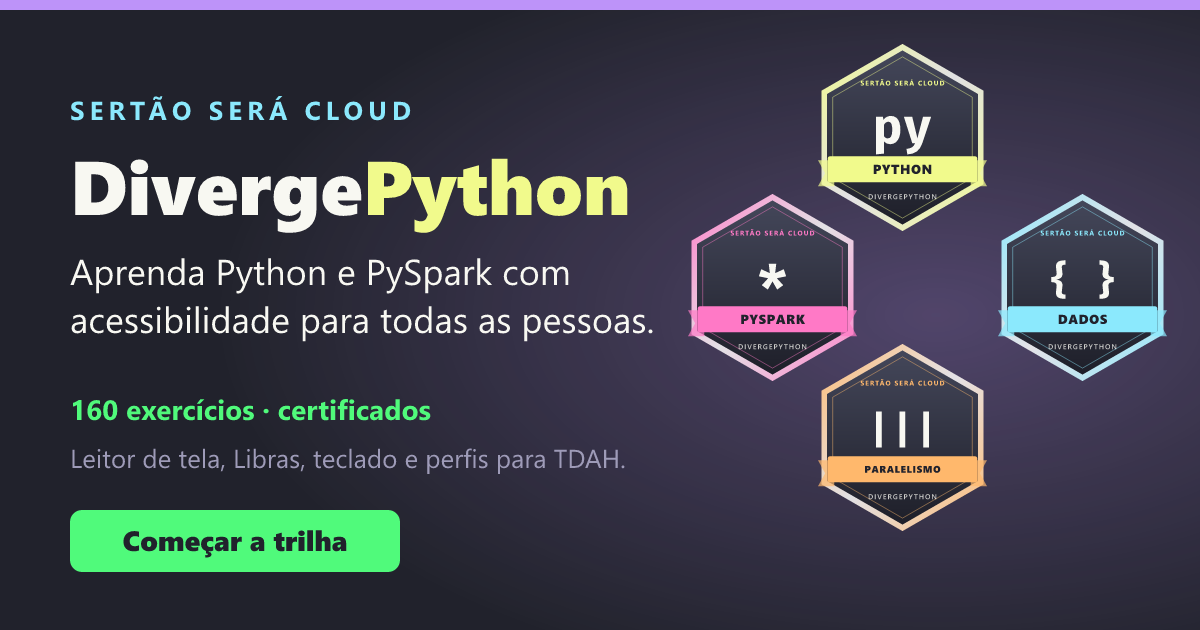
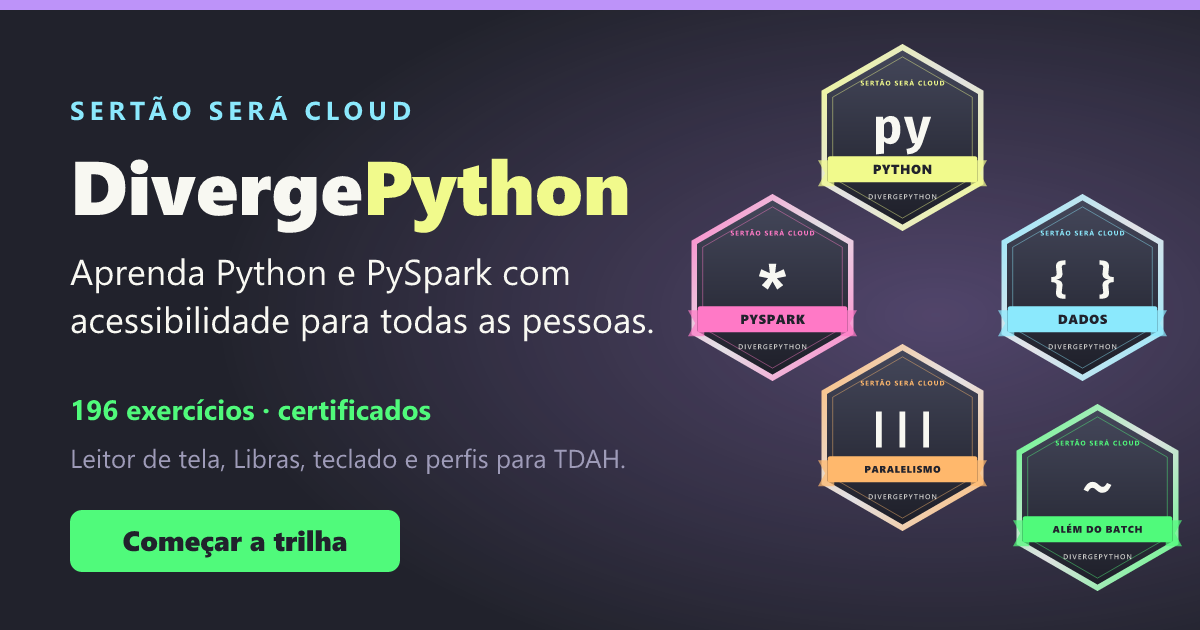
Trilha: o módulo 🌊 Spark além do batch, com certificado, badge e glossário

Changed region(s): [[0.8325, 0.6333, 0.9867, 0.9349], [0.8942, 0.754, 0.925, 0.7841], [0.0617, 0.6333, 0.0925, 0.6635]]

diff --git a/src/conteudo/glossario.js b/src/conteudo/glossario.js
@@ -392,6 +392,103 @@ export const GLOSSARIO = [
     analogia: 'Uma resposta em branco no questionário: não dá para dizer se é sim ou não.',
     exemplo: 'df.filter(df.nota.isNull()).show()\ndf.na.fill({"nota": 0.0})',
   },
+  // ---------- Spark além do batch ----------
+  {
+    id: 'micro-lote', termo: 'Micro-lote', padroes: ['micro-?lotes?'],
+    definicao: 'Um pedaço dos dados que chegaram no streaming, processado de uma vez. O Structured Streaming roda um micro-lote atrás do outro.',
+    analogia: 'A passada no pluviômetro: a cada visita você anota só o que choveu desde a última.',
+    exemplo: 'q = df.writeStream.format("console").start()\nq.processAllAvailable()  # Batch: 0, Batch: 1...',
+  },
+  {
+    id: 'estado-streaming', termo: 'Estado', padroes: ['estado'],
+    definicao: 'O que uma consulta de streaming guarda entre um micro-lote e outro, como a contagem de cada chave até agora.',
+    analogia: 'O caderno do apurador: a cada urna nova, ele soma aos totais que já anotou.',
+    exemplo: 'contagem = leituras.groupBy("estacao").count()  # a contagem é o estado',
+  },
+  {
+    id: 'marca-dagua', termo: "Marca d'água", padroes: ["marca d['’]água", 'watermark'],
+    definicao: 'Até onde o streaming espera dados atrasados: o maior tempo de evento já visto menos o atraso aceito. O que chega antes dela é descartado.',
+    analogia: 'O fim da feira: depois de certa hora, quem chega com mercadoria não monta mais a banca.',
+    exemplo: 'df.withWatermark("momento", "5 minutes")',
+  },
+  {
+    id: 'gatilho', termo: 'Gatilho', padroes: ['gatilhos?', 'trigger'],
+    definicao: 'Quando a consulta de streaming roda um micro-lote: a cada intervalo, uma vez só, ou até acabar o que já chegou.',
+    analogia: 'O despertador do vigia: ele faz a ronda a cada hora, ou uma vez antes de fechar.',
+    exemplo: 'df.writeStream.trigger(availableNow=True).start()',
+  },
+  {
+    id: 'modo-saida', termo: 'Modo de saída', padroes: ['modos? de saída', 'outputMode'],
+    definicao: 'O que sai em cada micro-lote: append (só as linhas novas), complete (a tabela inteira) ou update (só o que mudou).',
+    analogia: 'O boletim da chuva: só as cidades novas, a lista inteira de novo, ou só quem mudou desde o último.',
+    exemplo: 'df.writeStream.outputMode("update")',
+  },
+  {
+    id: 'tempo-evento', termo: 'Tempo do evento', padroes: ['tempo do evento'],
+    definicao: 'A hora em que a coisa aconteceu (a leitura da estação), e não a hora em que o dado chegou ao Spark.',
+    analogia: 'A data da carta é a do dia em que foi escrita, não a do dia em que o carteiro entregou.',
+    exemplo: 'F.window("momento", "10 minutes")  # momento é o tempo do evento',
+  },
+  {
+    id: 'feature', termo: 'Feature', padroes: ['features?'],
+    definicao: 'Uma característica usada pelo modelo para prever: chuva, área, irrigação.',
+    analogia: 'Os dados da ficha do agricultor que o agrônomo olha antes de dar o palpite da safra.',
+    exemplo: 'VectorAssembler(inputCols=["chuva_mm", "area_ha"], outputCol="features")',
+  },
+  {
+    id: 'vetor', termo: 'Vetor', padroes: ['vetor(es)?', 'DenseVector', 'SparseVector'],
+    definicao: 'Uma lista de números numa coluna só. No MLlib, as features de cada linha vão juntas num vetor.',
+    analogia: 'O cartão com todos os números da roça, em vez de folhas soltas.',
+    exemplo: 'from pyspark.ml.linalg import Vectors\nVectors.dense([300.0, 5.0, 1.0])',
+  },
+  {
+    id: 'estimador', termo: 'Estimador', padroes: ['estimador(es)?', 'Estimator'],
+    definicao: 'Algo que aprende com os dados (fit) e devolve um modelo, como o LinearRegression ou o StringIndexer.',
+    analogia: 'O aprendiz que observa a colheita e, depois, sabe dar o palpite sozinho.',
+    exemplo: 'modelo = LinearRegression(labelCol="producao_t").fit(dados)',
+  },
+  {
+    id: 'transformador', termo: 'Transformador', padroes: ['transformador(es)?', 'Transformer'],
+    definicao: 'Algo que muda um DataFrame com transform: o VectorAssembler e todo modelo treinado.',
+    analogia: 'A máquina de beneficiar: entra o grão, sai o grão limpo.',
+    exemplo: 'com_features = montador.transform(treino)',
+  },
+  {
+    id: 'pipeline', termo: 'Pipeline', padroes: ['pipelines?'],
+    definicao: 'As etapas de preparo e o modelo em ordem: o fit treina tudo, e o modelo do pipeline faz tudo de uma vez nos dados novos.',
+    analogia: 'A linha da casa de farinha: descascar, ralar, prensar e torrar, sempre na mesma ordem.',
+    exemplo: 'Pipeline(stages=[indexador, montador, regressao]).fit(treino)',
+  },
+  {
+    id: 'overfitting', termo: 'Overfitting', padroes: ['overfitting', 'sobreajuste'],
+    definicao: 'Quando o modelo decora o treino em vez de aprender: vai muito bem nele e mal em dados que nunca viu.',
+    analogia: 'O aluno que decorou as respostas da prova do ano passado e não sabe resolver a deste ano.',
+    exemplo: 'treino, teste = df.randomSplit([0.8, 0.2], seed=1)',
+  },
+  {
+    id: 'log-transacoes', termo: 'Log de transações', padroes: ['log de transaç(ão|ões)', '_delta_log'],
+    definicao: 'A pasta _delta_log de uma tabela Delta: um arquivo por versão, dizendo o que entrou e o que saiu.',
+    analogia: 'O livro-caixa da cooperativa: cada lançamento numa página nova, nada é apagado.',
+    exemplo: 'os.listdir("estoque/_delta_log")',
+  },
+  {
+    id: 'time-travel', termo: 'Time travel', padroes: ['time travel', 'versionAsOf', 'timestampAsOf'],
+    definicao: 'Ler uma tabela Delta como ela era numa versão (ou numa hora) do passado.',
+    analogia: 'Folhear o livro-caixa até a página de ontem.',
+    exemplo: 'spark.read.format("delta").option("versionAsOf", 0).load("estoque")',
+  },
+  {
+    id: 'upsert', termo: 'Upsert', padroes: ['upsert'],
+    definicao: 'Atualizar o que já existe e inserir o que é novo, numa operação só (o merge do Delta).',
+    analogia: 'Na chegada da mercadoria, o que já tem na prateleira soma, e o produto novo ganha prateleira.',
+    exemplo: 'tabela.alias("e").merge(novos.alias("n"), "e.id = n.id").whenMatchedUpdateAll().whenNotMatchedInsertAll().execute()',
+  },
+  {
+    id: 'vacuum', termo: 'Vacuum', padroes: ['vacuum'],
+    definicao: 'Apagar de verdade os arquivos que nenhuma versão recente de uma tabela Delta usa. Depois dele, o time travel para antes da retenção não funciona.',
+    analogia: 'Jogar fora os rascunhos velhos: o armário esvazia, mas não dá mais para consultar.',
+    exemplo: 'DeltaTable.forPath(spark, "estoque").vacuum(168)',
+  },
 ];
 
 // Letras (com acento), dígitos, _ e $ contam como parte de uma palavra.
@@ -403,7 +500,7 @@ const REGEX = new Map(GLOSSARIO.map((t) => [
 
 // Nível de cada termo: o módulo em que ele aparece primeiro (a ordem do glossário).
 const ORDEM_MODULOS = ['basico', 'dados', 'paralelismo', 'pyspark', 'alem', 'projetos'];
-const INICIO_DO_NIVEL = { basico: 'variavel', dados: 'comprehension', paralelismo: 'paralelismo', pyspark: 'spark' };
+const INICIO_DO_NIVEL = { basico: 'variavel', dados: 'comprehension', paralelismo: 'paralelismo', pyspark: 'spark', alem: 'micro-lote' };
 const NIVEL = new Map();
 {
   let nivel = 0;

diff --git a/public/badge/alem/index.html b/public/badge/alem/index.html
@@ -1,0 +1,40 @@
+<!doctype html>
+<html lang="pt-br">
+<head>
+  <meta charset="utf-8">
+  <meta name="viewport" content="width=device-width, initial-scale=1">
+  <title>Badge: Streaming, Machine Learning e Delta Lake com Spark · Sertão será cloud</title>
+  <meta name="description" content="Badge digital emitido pela Sertão será cloud. Carga horária: 20 horas. Habilidades: Delta Lake: versões, merge e time travel, Structured Streaming: micro-lotes, janelas e marca d'água, MLlib: pipelines, regressão, classificação e agrupamento, Avaliação de modelos.">
+  <meta property="og:type" content="website">
+  <meta property="og:site_name" content="Sertão será cloud">
+  <meta property="og:title" content="Badge: Streaming, Machine Learning e Delta Lake com Spark · Sertão será cloud">
+  <meta property="og:description" content="Badge digital emitido pela Sertão será cloud. Carga horária: 20 horas. Habilidades: Delta Lake: versões, merge e time travel, Structured Streaming: micro-lotes, janelas e marca d'água, MLlib: pipelines, regressão, classificação e agrupamento, Avaliação de modelos.">
+  <meta property="og:url" content="https://sertaoseracloud.github.io/python-playground/badge/alem/">
+  <meta property="og:image" content="https://sertaoseracloud.github.io/python-playground/badges/alem-card.png">
+  <meta property="og:image:width" content="1200">
+  <meta property="og:image:height" content="627">
+  <meta property="og:image:alt" content="Badge Streaming, Machine Learning e Delta Lake com Spark">
+  <meta name="robots" content="noindex, follow">
+  <meta name="twitter:card" content="summary_large_image">
+  <meta name="twitter:image" content="https://sertaoseracloud.github.io/python-playground/badges/alem-card.png">
+  <style>
+    body { margin: 0; min-height: 100vh; display: grid; place-items: center; background: #21222c; color: #f8f8f2; font-family: system-ui, sans-serif; text-align: center; }
+    img { width: 220px; height: 220px; }
+    a { color: #bd93f9; }
+  </style>
+</head>
+<body>
+  <main>
+    <img src="../../badges/alem.png" alt="">
+    <h1>Streaming, Machine Learning e Delta Lake com Spark</h1>
+    <p><a id="ir" href="../../">Abrir o certificado</a></p>
+  </main>
+  <script>
+    // O código do certificado vem em ?c=; o certificado em si é montado pelo site.
+    var c = new URLSearchParams(location.search).get('c');
+    var destino = '../../' + (c && /^[A-Za-z0-9_-]+$/.test(c) ? '#/certificado/' + c : '#/');
+    document.getElementById('ir').href = destino;
+    location.replace(destino);
+  </script>
+</body>
+</html>

diff --git a/src/conteudo/alem.js b/src/conteudo/alem.js
@@ -1,0 +1,29 @@
+// 🌊 Spark além do batch: 12 lições e 36 exercícios em três áreas, na ordem Delta Lake →
+// Structured Streaming → MLlib (alem-delta.js, alem-streaming.js e alem-mllib.js).
+import { licoesDelta, exerciciosDelta } from './alem-delta.js';
+import { licoesStreaming, exerciciosStreaming } from './alem-streaming.js';
+import { licoesMllib, exerciciosMllib } from './alem-mllib.js';
+
+const ex = Object.fromEntries([...exerciciosDelta, ...exerciciosStreaming, ...exerciciosMllib].map((e) => [e.id, e]));
+const itens = (...ids) => ids.map((id) => ex[id]);
+
+export const moduloAlem = {
+  id: 'alem',
+  titulo: 'Spark além do batch',
+  icone: '🌊',
+  descricao: "Delta Lake (versões, merge e time travel), Structured Streaming (micro-lotes, janelas e marca d'água) e MLlib (pipelines, regressão, classificação e agrupamento). Uma implementação para aprender, com a API do Spark, rodando no seu navegador.",
+  itens: [
+    licoesDelta.tabela, ...itens('dl-gravar', 'dl-append'),
+    licoesDelta.historico, ...itens('dl-versao', 'dl-voltar'),
+    licoesDelta.merge, ...itens('dl-update', 'dl-delete', 'dl-merge', 'dl-historico', 'dl-desfazer'),
+    licoesDelta.manutencao, ...itens('dl-schema', 'dl-vacuum', 'dl-optimize'),
+    licoesStreaming.microLotes, ...itens('st-rate', 'st-ler'),
+    licoesStreaming.fontes, ...itens('st-filtro', 'st-max-files', 'st-sql'),
+    licoesStreaming.modos, ...itens('st-complete', 'st-update', 'st-alerta'),
+    licoesStreaming.janelas, ...itens('st-janela', 'st-deslizante', 'st-marca', 'st-fechadas'),
+    licoesMllib.features, ...itens('ml-vetor', 'ml-scaler'),
+    licoesMllib.pipeline, ...itens('ml-indexer', 'ml-pipeline'),
+    licoesMllib.modelos, ...itens('ml-linear', 'ml-logistica', 'ml-arvore'),
+    licoesMllib.avaliacao, ...itens('ml-rmse', 'ml-auc', 'ml-kmeans', 'ml-comparar', 'ml-novos'),
+  ],
+};

diff --git a/tests/conteudo.test.js b/tests/conteudo.test.js
@@ -15,7 +15,16 @@ afterAll(() => pool.fechar());
 beforeAll(async () => { const { sessao } = await iniciarPython({ pool }); executar = (a, o) => sessao.executar(a, o); }, 120_000);
 
 describe('estrutura', () => {
-  it.each([['basico', 40, 10], ['dados', 40, 10], ['paralelismo', 35, 10], ['pyspark', 45, 14]])('o módulo %s tem %i exercícios e %i lições', (id, exercicios, licoes) => {
+  it('o módulo alem tem, em cada área, 3 fáceis, 6 médios e 3 difíceis, e vem depois do PySpark', () => {
+    const m = modulos.find((x) => x.id === 'alem');
+    for (const prefixo of ['dl-', 'st-', 'ml-']) {
+      const area = m.itens.filter((i) => i.tipo === 'problema' && i.id.startsWith(prefixo));
+      expect(['facil', 'medio', 'dificil'].map((d) => area.filter((i) => i.dificuldade === d).length)).toEqual([3, 6, 3]);
+    }
+    expect(modulos.map((x) => x.id).slice(-2)).toEqual(['pyspark', 'alem']);
+  });
+
+  it.each([['basico', 40, 10], ['dados', 40, 10], ['paralelismo', 35, 10], ['pyspark', 45, 14], ['alem', 36, 12]])('o módulo %s tem %i exercícios e %i lições', (id, exercicios, licoes) => {
     const m = modulos.find((x) => x.id === id);
     expect(m.itens.filter((i) => i.tipo === 'problema')).toHaveLength(exercicios);
     expect(m.itens.filter((i) => i.tipo === 'licao')).toHaveLength(licoes);

diff --git a/src/certificados.js b/src/certificados.js
@@ -61,6 +61,13 @@ export const CERTIFICADOS = {
     hashtags: ['PySpark', 'Spark', 'Dados'],
     conteudos: ['RDD, partições e shuffle', 'DataFrame, funções, nulos e agregações', 'Joins, broadcast e funções de janela', 'Spark SQL, leitura e escrita, cache e explain'],
   },
+  alem: {
+    titulo: 'Streaming, Machine Learning e Delta Lake com Spark',
+    cargaHoraria: 20,
+    resumo: 'concluiu o módulo Spark além do batch, resolvendo os 36 problemas práticos',
+    hashtags: ['Spark', 'Streaming', 'MachineLearning', 'DeltaLake'],
+    conteudos: ['Delta Lake: versões, merge e time travel', "Structured Streaming: micro-lotes, janelas e marca d'água", 'MLlib: pipelines, regressão, classificação e agrupamento', 'Avaliação de modelos'],
+  },
 };
 
 const DATA = /^\d{4}-\d{2}-\d{2}$/;

diff --git a/src/badges.js b/src/badges.js
@@ -9,6 +9,8 @@ export const BADGES = {
   paralelismo: { cor: '#ffb86c', simbolo: '|||', faixa: 'PARALELISMO' },
   // A estrela do logo do Spark: um asterisco simples, porque o gerador só tem a fonte do site.
   pyspark: { cor: '#ff79c6', simbolo: '*', faixa: 'PYSPARK' },
+  // A onda do ícone 🌊: um til, porque o gerador de PNG só tem a fonte do site.
+  alem: { cor: '#50fa7b', simbolo: '~', faixa: 'ALÉM DO BATCH' },
   final: { cor: '#f1c40f', simbolo: '★', faixa: 'TRILHA COMPLETA' },
 };
 
@@ -144,5 +146,6 @@ ${badge('basico', 805, 40, 195)}
 ${badge('dados', 985, 190, 195)}
 ${badge('paralelismo', 805, 340, 195)}
 ${badge('pyspark', 675, 190, 195)}
+${badge('alem', 1000, 400, 195)}
 </svg>`;
 }

diff --git a/src/conteudo/trilha.js b/src/conteudo/trilha.js
@@ -4,12 +4,12 @@ import { moduloBasico } from './basico.js';
 import { moduloDados } from './dados.js';
 import { moduloParalelismo } from './paralelismo.js';
 import { moduloPyspark } from './pyspark.js';
+import { moduloAlem } from './alem.js';
 
-export const modulos = [moduloBasico, moduloDados, moduloParalelismo, moduloPyspark];
+export const modulos = [moduloBasico, moduloDados, moduloParalelismo, moduloPyspark, moduloAlem];
 
 /** Módulos das próximas versões (só título e ícone, para a landing e a trilha). */
 export const PROXIMOS_MODULOS = [
-  { id: 'alem', icone: '🌊', titulo: 'Spark além do batch' },
   { id: 'projetos', icone: '🏗', titulo: 'Projetos' },
 ];
 

diff --git a/tests/glossario.test.js b/tests/glossario.test.js
@@ -18,4 +18,10 @@ describe('glossário', () => {
     expect(ids('O Pool divide as tarefas entre os processos', 'paralelismo')).not.toContain('estagio');
     expect(ids('O Pool divide as tarefas entre os processos', 'paralelismo')).toContain('processo');
   });
+
+  it('os termos do streaming, do Delta e do MLlib só aparecem do módulo alem em diante', () => {
+    const texto = "A marca d'água descarta o atrasado; o merge faz o upsert; o pipeline junta o estimador";
+    expect(ids(texto, 'alem')).toEqual(expect.arrayContaining(['marca-dagua', 'upsert', 'pipeline', 'estimador']));
+    expect(ids(texto, 'pyspark')).not.toContain('marca-dagua');
+  });
 });
